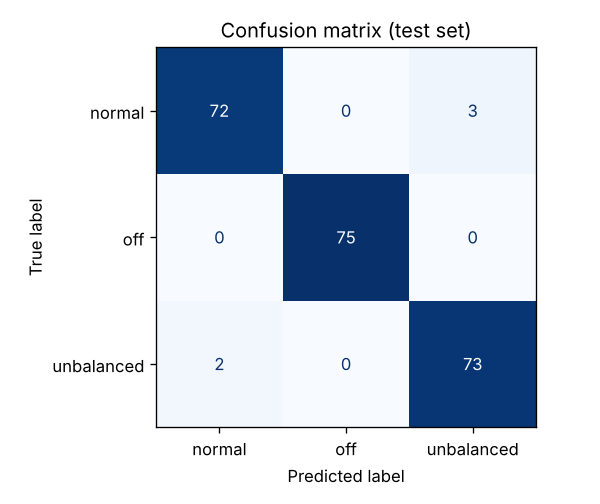
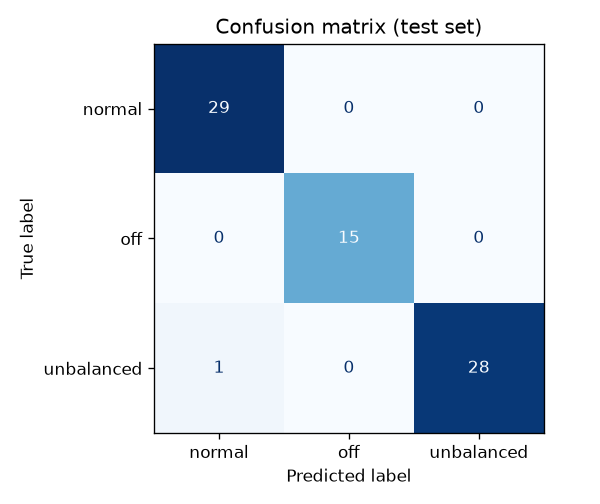
real board results

diff --git a/python/bot.py b/python/bot.py
@@ -36,7 +36,7 @@ def status_text() -> str:
             f"🔧 *{r['device']}*{stale}\n"
             f"AI ทายว่า: *{LABEL_TH.get(r['label'], r['label'])}* (มั่นใจ {r['confidence']:.0%})\n"
             f"การสั่น RMS: {r['rms']:.3f} g · ความถี่เด่น {r['f_dom']:.0f} Hz\n"
-            f"อุณหภูมิ {r['temp']:.1f}°C · ความชื้น {r['hum']:.0f}%\n"
+            f"อุณหภูมิบนบอร์ด {r['temp']:.1f}°C\n"
             f"อัปเดตเมื่อ {age:.0f} วินาทีที่แล้ว")
     return "\n\n".join(lines)
 
